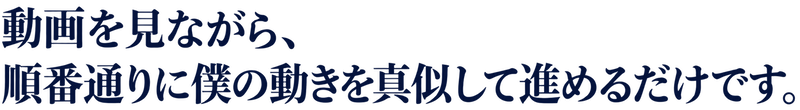
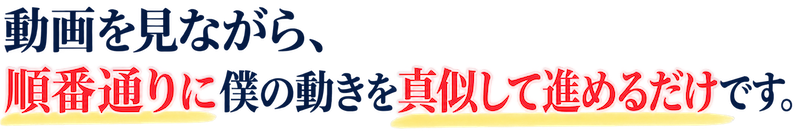
文字画像を左揃えにし、署名を別の明朝体にする。

diff --git a/me-tarumi-sp.html b/me-tarumi-sp.html
@@ -7,7 +7,7 @@
   <meta name="description" content="首・あご・こめかみ・頭・姿勢から順番に整える、目の下のたるみ解消セルフケア。1日約3分、動画を見ながら自宅で実践するオンライン7Daysプログラム。" />
   <link rel="preconnect" href="https://fonts.googleapis.com" />
   <link rel="preconnect" href="https://fonts.gstatic.com" crossorigin />
-  <link href="https://fonts.googleapis.com/css2?family=Noto+Serif+JP:wght@500;700;900&display=swap" rel="stylesheet" />
+  <link href="https://fonts.googleapis.com/css2?family=Noto+Serif+JP:wght@500;700;900&family=Shippori+Mincho:wght@500;600&display=swap" rel="stylesheet" />
   <style>
     :root {
       --brand-primary: #003c5a;
@@ -648,10 +648,13 @@
     .final-message::before { display: none; }
     .final-message > * { position: relative; z-index: 1; }
     .sign {
-      margin-top: 0.35rem;
+      margin-top: 0.55rem;
       margin-bottom: 0.15rem;
       text-align: right;
-      font-size: clamp(1.05rem, 4.2vw, 1.2rem);
+      font-family: "Shippori Mincho", "Noto Serif JP", serif;
+      font-weight: 500;
+      font-size: clamp(1.28rem, 5.2vw, 1.45rem);
+      letter-spacing: 0.06em;
     }
     .final-message .program-title { margin-top: 2.8rem; }
     .final-product {
@@ -756,7 +759,7 @@
       display: block;
       width: min(100%, 24rem);
       height: auto;
-      margin: 0.35rem auto 1rem;
+      margin: 0.35rem 0 1rem;
     }
     .phrase--good {
       width: min(50%, 12rem);
@@ -773,6 +776,11 @@
       width: min(100%, 22rem);
       height: auto;
       margin: 0.2rem auto 0.85rem;
+    }
+    .program-title--left {
+      width: 100%;
+      margin-left: 0;
+      margin-right: auto;
     }
     .plain-strong {
       font-weight: 900;
@@ -966,7 +974,7 @@
         <div class="prose">
           <p class="body-text">まず、<br>首や身体を動かしやすくする。<br>あごやこめかみの力をゆるめる。<br>頭まわりを整える。<br>そして最後に、<br>目のまわりをやさしく動かす。<br>この順番で進めるのが、</p>
         </div>
-        <img class="program-title" src="assets/me-tarumi/program-title.png" alt="奇跡の若返りシリーズ 目の下たるみ解消セルフケア オンライン7Daysプログラム" />
+        <img class="program-title program-title--left" src="assets/me-tarumi/program-title-left.png" alt="奇跡の若返りシリーズ 目の下たるみ解消セルフケア オンライン7Daysプログラム" />
         <p class="body-text">です。</p>
       </section>
 
@@ -986,7 +994,7 @@
           <p class="body-text">最初に、<br>今の目元や身体の状態を確認。<br>そこから、<br>首や身体まわり。<br>あご・こめかみ・頭。<br>そして最後に、<br>目のまわり。<br>7日目には、<br>日常生活のクセまで見直します。</p>
           <p class="body-text">全部で15本の動画がありますが、<br>覚える必要はありません。</p>
         </div>
-        <img class="phrase" src="assets/me-tarumi/phrase-mimic.png" alt="動画を見ながら、順番通りに僕の動きを真似して進めるだけです。" />
+        <img class="phrase" src="assets/me-tarumi/phrase-mimic.png?v=2" alt="動画を見ながら、順番通りに僕の動きを真似して進めるだけです。" />
       </section>
 
       <!-- ========== 他の美容法 ========== -->
